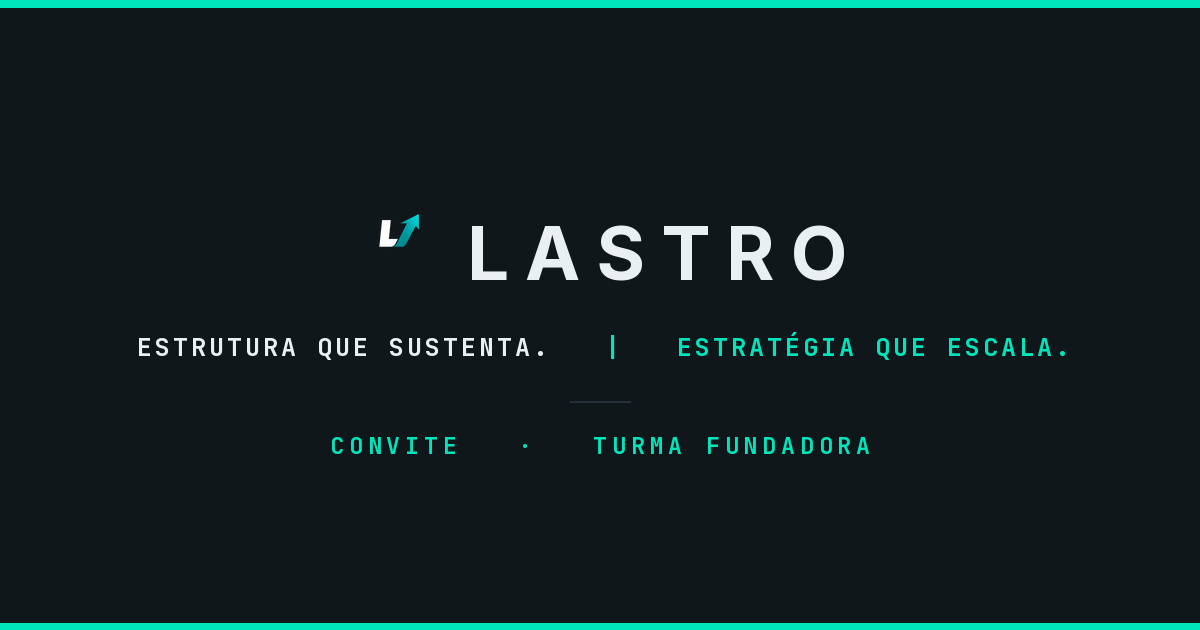
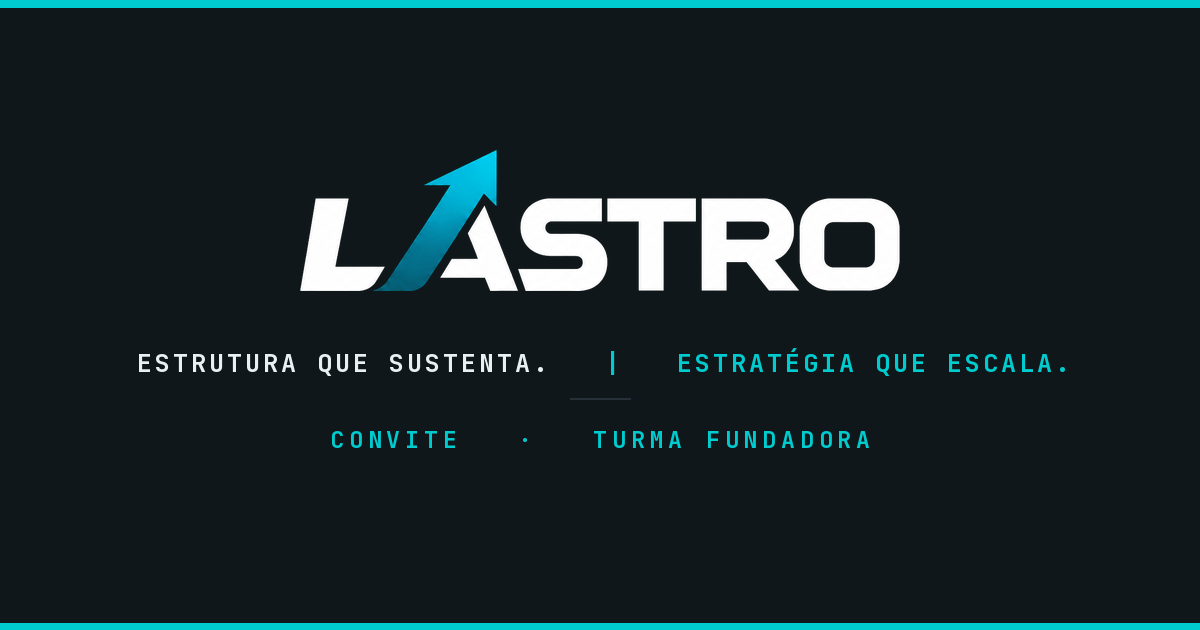
Add files via upload

diff --git a/index.html b/index.html
@@ -27,21 +27,12 @@
 
         <table role="presentation" width="600" cellpadding="0" cellspacing="0" border="0" style="width:600px; max-width:600px; background-color:#10171A;">
 
-          <tr><td style="height:3px; line-height:3px; font-size:0; background-color:#00E5BC;">&nbsp;</td></tr>
+          <tr><td style="height:3px; line-height:3px; font-size:0; background-color:#00CBCF;">&nbsp;</td></tr>
 
           <!-- marca -->
           <tr>
             <td align="center" style="padding:40px 48px 6px 48px;">
-              <table role="presentation" align="center" cellpadding="0" cellspacing="0" border="0">
-                <tr>
-                  <td style="vertical-align:middle; padding-right:13px;">
[1 lines of base64/hex data omitted]
-                  </td>
-                  <td style="vertical-align:middle;">
-                    <span style="font-family:'Inter',Arial,Helvetica,sans-serif; font-size:21px; font-weight:700; letter-spacing:5px; color:#EAF0F1;">LASTRO</span>
-                  </td>
-                </tr>
-              </table>
[1 lines of base64/hex data omitted]
               <div style="font-family:'JetBrains Mono','Courier New',monospace; font-size:10px; letter-spacing:3px; text-transform:uppercase; color:#8A94A0; padding-top:12px;">
                 Marca pessoal &amp; de empresa
               </div>
@@ -50,7 +41,7 @@
 
           <tr>
             <td align="center" style="padding:26px 48px 0 48px;">
-              <span style="font-family:'JetBrains Mono','Courier New',monospace; font-size:11px; letter-spacing:2.6px; text-transform:uppercase; color:#00E5BC;">
+              <span style="font-family:'JetBrains Mono','Courier New',monospace; font-size:11px; letter-spacing:2.6px; text-transform:uppercase; color:#00CBCF;">
                 Convite &middot; Turma Fundadora
               </span>
             </td>
@@ -82,7 +73,7 @@
           <tr>
             <td style="padding:34px 52px 0 52px;">
               <table role="presentation" width="100%" cellpadding="0" cellspacing="0" border="0" style="background-color:#0D1417; border:1px solid #263038;">
-                <tr><td style="height:2px; line-height:2px; font-size:0; background-color:#00806A;">&nbsp;</td></tr>
+                <tr><td style="height:2px; line-height:2px; font-size:0; background-color:#01868D;">&nbsp;</td></tr>
                 <tr>
                   <td align="center" style="padding:24px 24px;">
                     <div style="font-family:'JetBrains Mono','Courier New',monospace; font-size:10px; letter-spacing:2.4px; text-transform:uppercase; color:#8A94A0;">
@@ -92,7 +83,7 @@
                       ACESSO CORTESIA
                     </div>
                     <div style="height:1px; line-height:1px; font-size:0; background-color:#263038; margin:15px auto; width:52px;">&nbsp;</div>
-                    <div id="fundLine" style="display:none; font-family:'JetBrains Mono','Courier New',monospace; font-size:12px; letter-spacing:1.5px; color:#00E5BC;">
+                    <div id="fundLine" style="display:none; font-family:'JetBrains Mono','Courier New',monospace; font-size:12px; letter-spacing:1.5px; color:#00CBCF;">
                       FUNDADOR N&ordm; <span id="fund"></span>
                     </div>
                     <div style="font-family:'Inter',Arial,Helvetica,sans-serif; font-size:12px; line-height:1.6; color:#8A94A0; padding-top:8px;">
@@ -109,7 +100,7 @@
             <td align="center" style="padding:32px 52px 8px 52px;">
               <table role="presentation" cellpadding="0" cellspacing="0" border="0" align="center">
                 <tr>
-                  <td align="center" bgcolor="#00E5BC" style="border-radius:2px;">
+                  <td align="center" bgcolor="#00CBCF" style="border-radius:2px;">
                     <a id="cta" href="#" target="_blank" style="display:inline-block; padding:17px 40px; font-family:'Inter',Arial,Helvetica,sans-serif; font-size:13px; font-weight:700; letter-spacing:2px; text-transform:uppercase; color:#0B1013; text-decoration:none; border-radius:2px;">
                       Ativar meu convite
                     </a>
@@ -134,7 +125,7 @@
           <tr>
             <td align="center" style="padding:22px 52px 0 52px;">
               <div style="font-family:'JetBrains Mono','Courier New',monospace; font-size:11.5px; letter-spacing:2px; text-transform:uppercase; line-height:1.4;">
-                <span style="color:#EAF0F1;">Estrutura que sustenta.</span><span style="color:#00E5BC; padding:0 8px;">|</span><span style="color:#00E5BC;">Estrat&eacute;gia que escala.</span>
+                <span style="color:#EAF0F1;">Estrutura que sustenta.</span><span style="color:#00CBCF; padding:0 8px;">|</span><span style="color:#00CBCF;">Estrat&eacute;gia que escala.</span>
               </div>
             </td>
           </tr>
@@ -150,7 +141,7 @@
             </td>
           </tr>
 
-          <tr><td style="height:3px; line-height:3px; font-size:0; background-color:#00E5BC;">&nbsp;</td></tr>
+          <tr><td style="height:3px; line-height:3px; font-size:0; background-color:#00CBCF;">&nbsp;</td></tr>
         </table>
 
         <table role="presentation" width="600" cellpadding="0" cellspacing="0" border="0" style="width:600px; max-width:600px;">